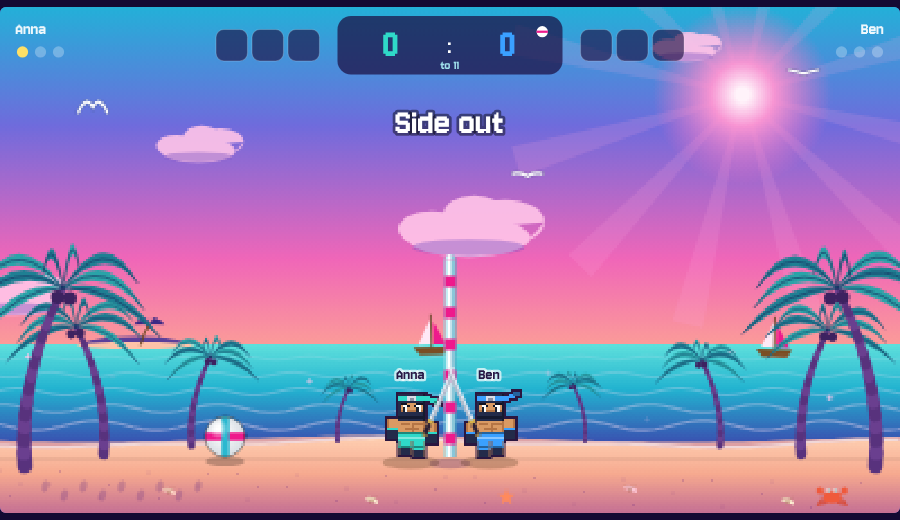
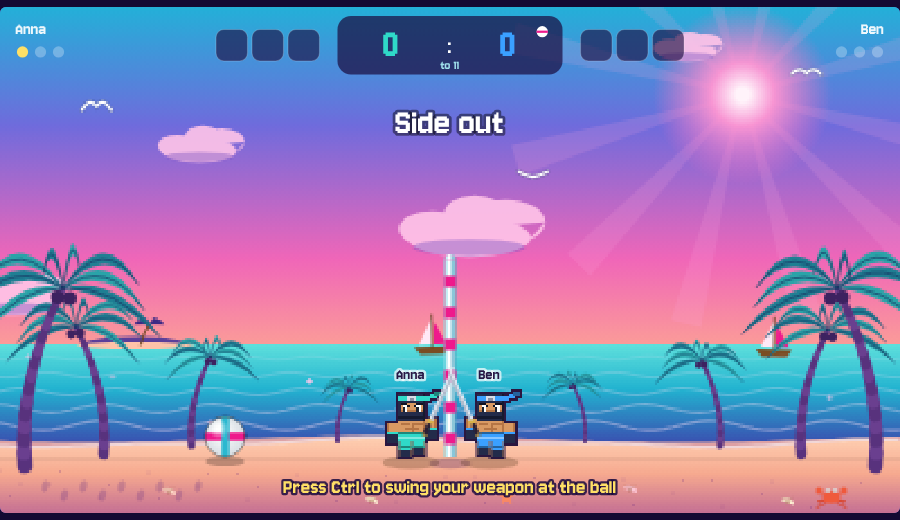
Ranged weapons: hold to aim (sweeping line), release to fire; CPU aims too and predicts the rod's dip; weapon hints
Claude-Session: https://claude.ai/code/session_01SftAWfgvfxAKUMmDe4fn3V

diff --git a/engine.js b/engine.js
@@ -64,9 +64,12 @@
     rod:    { reach: 52,  v: 15,   fwd: 0.9,  up: -0.4,  aimW: 0.3,  cd: 100, dip: 55 }      // the ball dips steeply behind the net
   };
   const cdMax = style => (kindOf(style) === 'ranged' ? RANGED[weaponOf(style)].cd : MELEE[weaponOf(style)].cd);
-  /* Direction of a ranged shot: forward and a bit upward from the ground; in the air it follows the jump (rising: up, falling: down). */
+  /* Direction of a ranged shot (no auto-aim): the player HOLDS the special key and the aim sweeps up and down; releasing fires.
+   * A quick tap fires forward and a little upward. aimHold = frames the key has been held. */
+  const AIM_PERIOD = 80;
+  function aimAt(hold) { return -0.3 - 0.6 * Math.sin(2 * Math.PI * hold / AIM_PERIOD); }       // -0.9 (steep up) ... +0.3 (down)
   function shotAngle(b) {
-    const a = b.onGround ? -0.32 : Math.max(-0.25, Math.min(0.35, b.vy * 0.03));
+    const a = aimAt(b.aimHold || 0);
     return b.team === 0 ? a : Math.PI - a;
   }
 
@@ -114,7 +117,8 @@
   }
 
   function stepBallFree(ball, rng) {
-    ball.vy += C.BALL_G;
+    ball.vy += C.BALL_G + (ball.dip > 0 ? C.DIP_G : 0);
+    if (ball.dip > 0) ball.dip--;
     ball.x += ball.vx; ball.y += ball.vy;
     const r = C.BALL_R;
     if (ball.x < r) { ball.x = r; ball.vx = Math.abs(ball.vx) * 0.85; }
@@ -138,13 +142,13 @@
       this.prevSpecial = false;
       this.touchCd = 0;
       this.fight = false;            // Volley Fight: has a weapon (melee or ranged, see kindOf)
-      this.swing = 0; this.cd = 0; this.swung = false;   // weapon swing frames left / cooldown frames left
+      this.swing = 0; this.cd = 0; this.swung = false; this.aimHold = 0;   // weapon swing frames left / cooldown frames left
       this.aim = 0;                  // weapon angle (radians), auto-aimed at the ball
       this.ai = null;
     }
     reset() {
       this.x = this.homeX; this.y = C.GROUND - C.BLOB_R;
-      this.vx = this.vy = 0; this.touchCd = 0; this.swing = 0;
+      this.vx = this.vy = 0; this.touchCd = 0; this.swing = 0; this.aimHold = 0;
     }
     get onGround() { return this.y >= C.GROUND - C.BLOB_R - 0.001; }
   }
@@ -219,13 +223,18 @@
         if (near && b.onGround && rng() < p.jump) inp.jump = true;
       }
 
-      // Volley Fight, ranged weapon (no auto-aim): shoot when the ball is on the line of fire
+      // Volley Fight, ranged weapon: hold the key until the sweeping aim points at the ball, then release
       if (sim.fight && kindOf(b.style) === 'ranged') {
+        const W = RANGED[weaponOf(b.style)];
         if (b.cd === 0 && sim.state === 'play') {
-          const W = RANGED[weaponOf(b.style)], ang = shotAngle(b), dx = (ball.x - b.x) * dir;
-          if (dx > 40 && dx < W.v * W.life * 0.9) {
-            if (Math.abs(ball.y - (b.y - 4 + dx * Math.tan(dir === 1 ? ang : Math.PI - ang))) < 30 && rng() < p.wpn * 2) inp.special = true;
-          }
+          const t = Math.hypot(ball.x - b.x, ball.y - b.y) / W.v;
+          const tx = ball.x + ball.vx * t, ty = ball.y + ball.vy * t;           // lead the ball a little
+          const dx = (tx - b.x) * dir, need = Math.atan2(ty - (b.y - 4), Math.max(dx, 1));
+          const inRange = dx > 40 && dx < W.v * W.life * 0.9;
+          const cur = aimAt(b.aimHold);
+          if (b.aimHold > 0) {                                               // aiming: keep holding until the line is on the ball
+            if (inRange && b.aimHold < AIM_PERIOD && Math.abs(cur - need) > 0.09) inp.special = true;
+          } else if (inRange && need > -0.95 && need < 0.35 && rng() < p.wpn * 1.5) inp.special = true;
         }
       }
       // Volley Fight, melee weapon: swing when the ball is in reach
@@ -300,7 +309,7 @@
 
     /* Predict where the ball arrives at hit height (ignores blobs). */
     predict() {
-      const s = { x: this.ball.x, y: this.ball.y, vx: this.ball.vx, vy: this.ball.vy };
+      const s = { x: this.ball.x, y: this.ball.y, vx: this.ball.vx, vy: this.ball.vy, dip: this.ball.dip || 0 };
       const r = () => 0.5;
       for (let t = 0; t < 400; t++) {
         stepBallFree(s, r);
@@ -466,6 +475,7 @@
         this.shots.push({ x: b.x + Math.cos(a0) * (C.BLOB_R + 8), y: b.y - 4 + Math.sin(a0) * (C.BLOB_R + 8), vx: Math.cos(a) * W.v, vy: Math.sin(a) * W.v, team: b.team, life: W.life, k: W.n > 1 ? 0 : 1, vol: this.volley });
       }
       this.emit('shot', { blob: b.id, heavy: W.n > 1 });
+      b.aimHold = 0;
     }
     /* Bolts: a hit on a ball flying toward the opponents speeds it up, on a ball flying toward the shooter's own side it slows it down. */
     stepShots() {
@@ -502,7 +512,9 @@
       const live = this.state === 'serve' || this.state === 'play';
       const dir = b.team === 0 ? 1 : -1;
       if (kindOf(b.style) === 'ranged') {
-        if (pressed && live && b.cd === 0 && b.swing === 0) this.fire(b);
+        // hold the key = aim (the line sweeps), release = fire
+        if (b.input.special && live && b.cd === 0 && b.swing === 0) b.aimHold++;
+        else if (b.aimHold > 0) { if (live && b.cd === 0 && b.swing === 0) this.fire(b); b.aimHold = 0; }
         return;
       }
       const M = MELEE[weaponOf(b.style)];
@@ -601,7 +613,7 @@
     }
   }
 
-  const api = { C, LEVELS, POWERUPS, FIGURES, DEFAULT_FIGURE, WEAPON_KIND, RANGED, kindOf, cdMax, shotAngle, MELEE, Sim, Blob, AI, mulberry32, towelRects };
+  const api = { C, LEVELS, POWERUPS, FIGURES, DEFAULT_FIGURE, WEAPON_KIND, RANGED, kindOf, cdMax, shotAngle, aimAt, AIM_PERIOD, MELEE, Sim, Blob, AI, mulberry32, towelRects };
   if (typeof module !== 'undefined' && module.exports) module.exports = api;
   else root.VB = api;
 })(typeof self !== 'undefined' ? self : this);

diff --git a/index.html b/index.html
@@ -172,7 +172,7 @@
         <li><b>Figures:</b> before each match pick your name, hero (Pixel Hero, Ninja, Adventurer or Santa / Mrs. Claus), look (male / female) and swimwear colour.</li>
         <li><b>Online:</b> one player creates a room and shares the 4-letter code (or the invite link), the other joins. The host's browser runs the game, so the host should keep the tab in the foreground.</li>
         <li><b>Power-ups:</b> every 30 s each player gets one falling from the sky. Catch it with your hero (3 can be stored), then press Ctrl to use it. See the Power-ups page for what they do.</li>
-        <li><b>Volley Fight:</b> choose “Volley Fight” under Rules. Every hero has a weapon – two kinds. <b>Melee</b> – press the special key (Ctrl / ⚡) to swing; the weapon aims at the ball by itself and, if the ball is in reach, smashes it away faster than a normal hit (one of your 3 touches). Each weapon differs: Pixel Hero's <b>sword</b> is the all-rounder, the Ninja's <b>katana</b> is the fastest and flattest with a short recharge, the Adventurer's <b>lasso</b> reaches very far and lobs the ball high, Santa's <b>birch rod</b> makes the ball dip steeply behind the net. <b>Ranged</b> (Cyborg shotgun: 3 pellets, slow to reload · Cowboy revolver: 1 bullet, fires again quickly): there is <i>no auto-aim</i> – the shot goes forward and slightly up from the ground, and follows your jump in the air (the gun shows the line of fire), so aim by where you stand and jump. A hit speeds up a ball that is flying to your opponents and slows down one that is coming at you; shots are not touches. Weapons need time to recharge (bar under the name). There are no power-ups in this mode.</li>
+        <li><b>Volley Fight:</b> choose “Volley Fight” under Rules. Every hero has a weapon – two kinds. <b>Melee</b> – press the special key (Ctrl / ⚡) to swing; the weapon aims at the ball by itself and, if the ball is in reach, smashes it away faster than a normal hit (one of your 3 touches). Each weapon differs: Pixel Hero's <b>sword</b> is the all-rounder, the Ninja's <b>katana</b> is the fastest and flattest with a short recharge, the Adventurer's <b>lasso</b> reaches very far and lobs the ball high, Santa's <b>birch rod</b> makes the ball dip steeply behind the net. <b>Ranged</b> (Cyborg shotgun: 3 pellets, slow to reload · Cowboy revolver: 1 bullet, fires again quickly): there is <i>no auto-aim</i>. <b>Hold</b> the special key – the dotted line of fire sweeps up and down – and <b>release</b> to fire (a quick tap shoots forward and slightly up). Shots fly over the net. A hit speeds up a ball that is flying to your opponents and slows down one that is coming at you; shots are not touches. Weapons need time to recharge (bar under the name). There are no power-ups in this mode.</li>
         <li><b>High scores:</b> wins against the CPU count – points = lead × 100 × level factor + longest rally × 10.</li>
       </ul>
       <div class="row"><button id="btnHowtoBack">Back</button></div>

diff --git a/app.js b/app.js
@@ -53,8 +53,8 @@
     katana: ['Katana', 'Fastest, flat smash and a short recharge.'],
     lasso: ['Lasso', 'Very long reach: lobs the ball high over the net. Slow recharge.'],
     rod: ['Birch rod', 'The ball dips steeply behind the net. Short reach.'],
-    shotgun: ['Shotgun', '3 pellets, short range, slow reload. No auto-aim.'],
-    revolver: ['Revolver', '1 bullet, fires again quickly. No auto-aim.']
+    shotgun: ['Shotgun', '3 pellets, short range, slow reload. Hold the key to aim, release to fire.'],
+    revolver: ['Revolver', '1 bullet, fires again quickly. Hold the key to aim, release to fire.']
   };
   const figName = (id, gender) => (gender === 'f' && FIGURES[id].nameF) || FIGURES[id].name;
   const styleOf = v => (FIGURES[v] ? v : VB.DEFAULT_FIGURE);
@@ -144,6 +144,7 @@
     const focusFirst = { menu: () => document.querySelector('#menu [data-rules]'), mode: () => document.querySelector('#modeSel [data-mode]'), scores: () => $('btnScoresBack'), powerups: () => $('btnPowerupsBack'), controls: () => $('btnControlsBack'), howto: () => $('btnHowtoBack') }[p];
     if (focusFirst) { const e = focusFirst(); if (e) e.focus(); }
     $('touch').hidden = !(touchMode && p === 'play');
+    if (p === 'play') { const tl = document.querySelector('#touch [data-k="TouchSpecial"] small'); if (tl) tl.textContent = game && game.fight ? 'WEAPON' : 'POWER-UP'; }
     if (p !== 'play') releaseTouchKeys();
   }
   /* ---- menu input, independent of the device ----
@@ -665,6 +666,18 @@
     // team names
     ctx.font = '700 13px ' + FONT; ctx.textAlign = 'left'; ctx.fillStyle = 'rgba(255,255,255,.92)'; ctx.fillText(names[0], 14, 24, 150);
     ctx.textAlign = 'right'; ctx.fillText(names[1], C.W - 14, 24, 150);
+    // Volley Fight: how to use the weapon (first seconds of a match)
+    if (g.fight && g.frames < 480 && g.mode !== 'duel') {
+      const me = g.mode === 'online' ? g.blobs[g.localTeam] : g.blobs.find(b => b.controller === 'human');
+      if (me) {
+        const key = touchMode ? 'the WEAPON button' : (g.mode === 'online' || g.mode === 'solo' || g.mode === 'team' ? 'Ctrl' : 'Ctrl');
+        const txt = VB.kindOf(me.style) === 'ranged' ? 'Hold ' + key + ' to aim – release to fire' : 'Press ' + key + ' to swing your weapon at the ball';
+        ctx.globalAlpha = Math.min(1, (480 - g.frames) / 60);
+        ctx.font = '700 16px ' + FONT; ctx.textAlign = 'center'; ctx.lineJoin = 'round'; ctx.lineWidth = 4;
+        ctx.strokeStyle = 'rgba(26,10,61,.85)'; ctx.strokeText(txt, 400, 432); ctx.fillStyle = '#ffe066'; ctx.fillText(txt, 400, 432);
+        ctx.globalAlpha = 1;
+      }
+    }
     // touches (3 dots per side)
     for (let tm = 0; tm < 2; tm++) {
       const used = g.lastTouchTeam === tm ? g.touches[tm] : 0;

diff --git a/net.js b/net.js
@@ -14,7 +14,7 @@
     const s = {
       t: 's', g: gid, q: seq,
       b: [r2(b.x), r2(b.y), r2(b.vx), r2(b.vy), r2(b.spin)],
-      bl: sim.blobs.map(o => [r2(o.x), r2(o.y), r2(o.vx), r2(o.vy), o.alman ? 1 : 0, o.aura ? 1 : 0, o.swing, o.cd, r2(o.aim)]),
+      bl: sim.blobs.map(o => [r2(o.x), r2(o.y), r2(o.vx), r2(o.vy), o.alman ? 1 : 0, o.aura ? 1 : 0, o.swing, o.cd, r2(o.aim), o.aimHold]),
       sc: sim.score, sv: sim.serving, tc: sim.touches, lt: sim.lastTouchTeam, rh: sim.rallyHits, lr: sim.longestRally,
       st: sim.state, tm: sim.timer, w: sim.winner, ms: sim.message, mt: sim.messageTimer,
       it: sim.items.map(p => [p.id, p.type, r2(p.x), r2(p.y), p.age]),
@@ -32,7 +32,7 @@
     b.x = s.b[0]; b.y = s.b[1]; b.vx = s.b[2]; b.vy = s.b[3]; b.spin = s.b[4];
     s.bl.forEach((a, i) => {
       const o = sim.blobs[i]; if (!o) return;
-      o.x = a[0]; o.y = a[1]; o.vx = a[2]; o.vy = a[3]; o.alman = !!a[4]; o.aura = !!a[5]; o.swing = a[6] | 0; o.cd = a[7] | 0; o.aim = a[8] || 0;
+      o.x = a[0]; o.y = a[1]; o.vx = a[2]; o.vy = a[3]; o.alman = !!a[4]; o.aura = !!a[5]; o.swing = a[6] | 0; o.cd = a[7] | 0; o.aim = a[8] || 0; o.aimHold = a[9] | 0;
     });
     sim.score = s.sc; sim.serving = s.sv; sim.touches = s.tc; sim.lastTouchTeam = s.lt;
     sim.rallyHits = s.rh; sim.longestRally = s.lr;

diff --git a/scene.js b/scene.js
@@ -234,6 +234,11 @@
     const idle = ranged ? VB.shotAngle(b) : (dir === 1 ? -1.15 : Math.PI + 1.15);   // a ranged weapon always shows its line of fire
     const ang = ranged ? (b.swing > 0 ? (b.aim || 0) : idle) : (p < 0 ? idle : (b.aim || 0) + (p - 0.5) * 2.2 * dir);
     ctx.save(); ctx.translate(dir * 14, 4 + cy);
+    if (ranged && b.aimHold > 0 && b.cd === 0) {                         // aiming: dotted line of fire
+      const W = VB.RANGED[kind], L = Math.min(W.v * W.life * 0.9, 330);
+      ctx.strokeStyle = 'rgba(255,255,255,0.75)'; ctx.lineWidth = 2; ctx.setLineDash([4, 6]); ctx.lineDashOffset = -t * 30;
+      ctx.beginPath(); ctx.moveTo(Math.cos(ang) * 30, Math.sin(ang) * 30); ctx.lineTo(Math.cos(ang) * L, Math.sin(ang) * L); ctx.stroke(); ctx.setLineDash([]);
+    }
     if (p >= 0 && !ranged) {                                                       // slash trail
       ctx.fillStyle = 'rgba(255,255,255,0.35)'; ctx.beginPath(); ctx.moveTo(0, 0);
       ctx.arc(0, 0, 58, (b.aim || 0) - 1.1 * dir, ang, dir < 0); ctx.closePath(); ctx.fill();

diff --git a/sw.js b/sw.js
@@ -1,6 +1,6 @@
 /* Beach Volley Hero service worker: app shell available offline.
  * Bump VERSION whenever any file changes. */
-const VERSION = 'vb-v26';
+const VERSION = 'vb-v27';
 const SHELL = [
   './', 'index.html', 'style.css', 'engine.js', 'scene.js', 'net.js', 'app.js', 'vendor/peerjs.min.js', 'vendor/fonts/jersey-10-latin-400-normal.woff2', 'manifest.webmanifest',
   'icons/icon.svg', 'icons/logo.svg', 'icons/icon-192.png', 'icons/icon-512.png', 'icons/icon-maskable-512.png'
